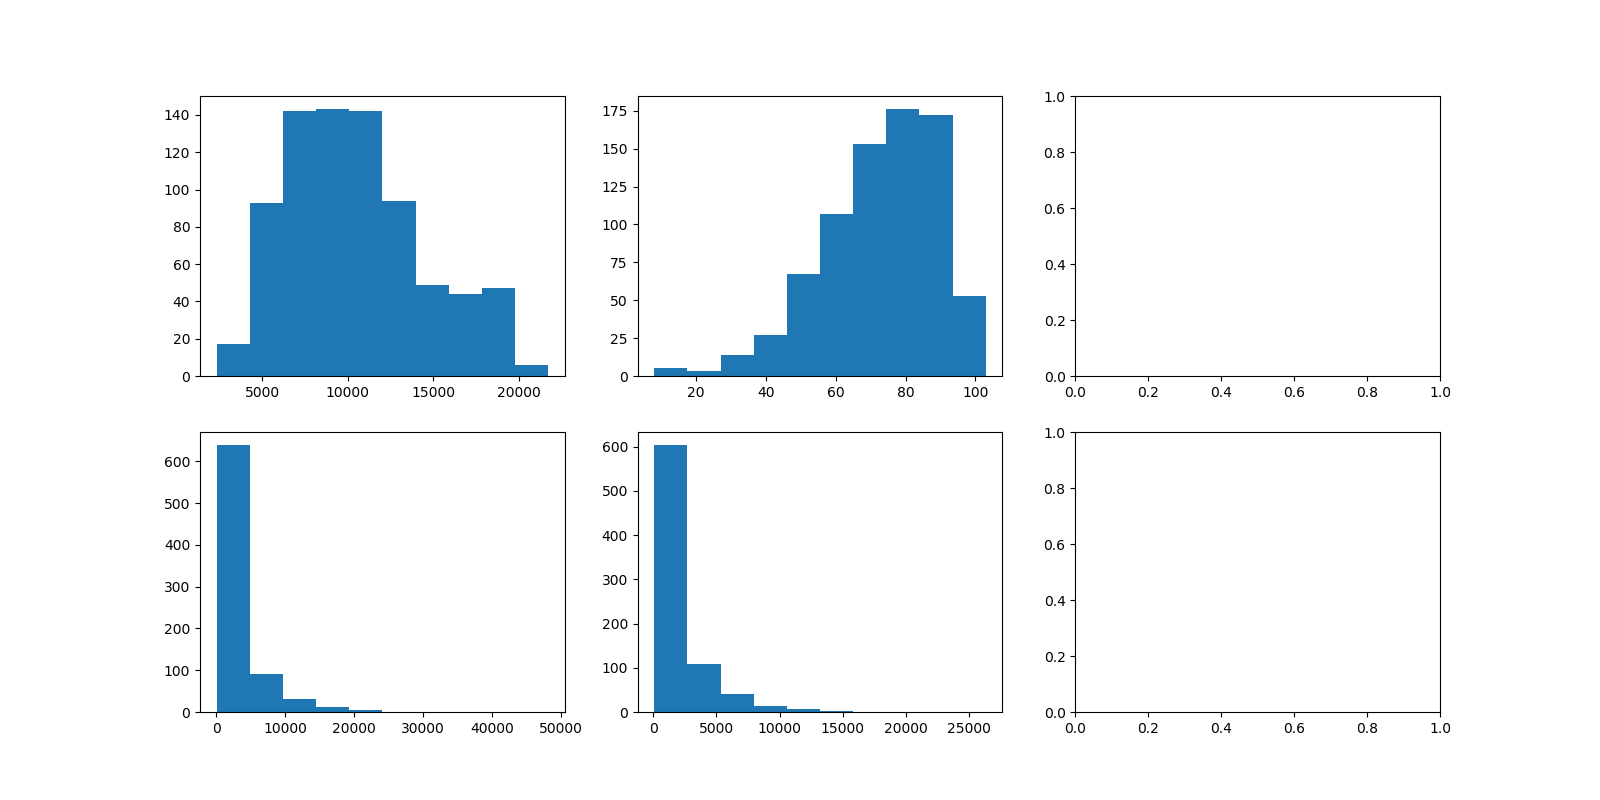
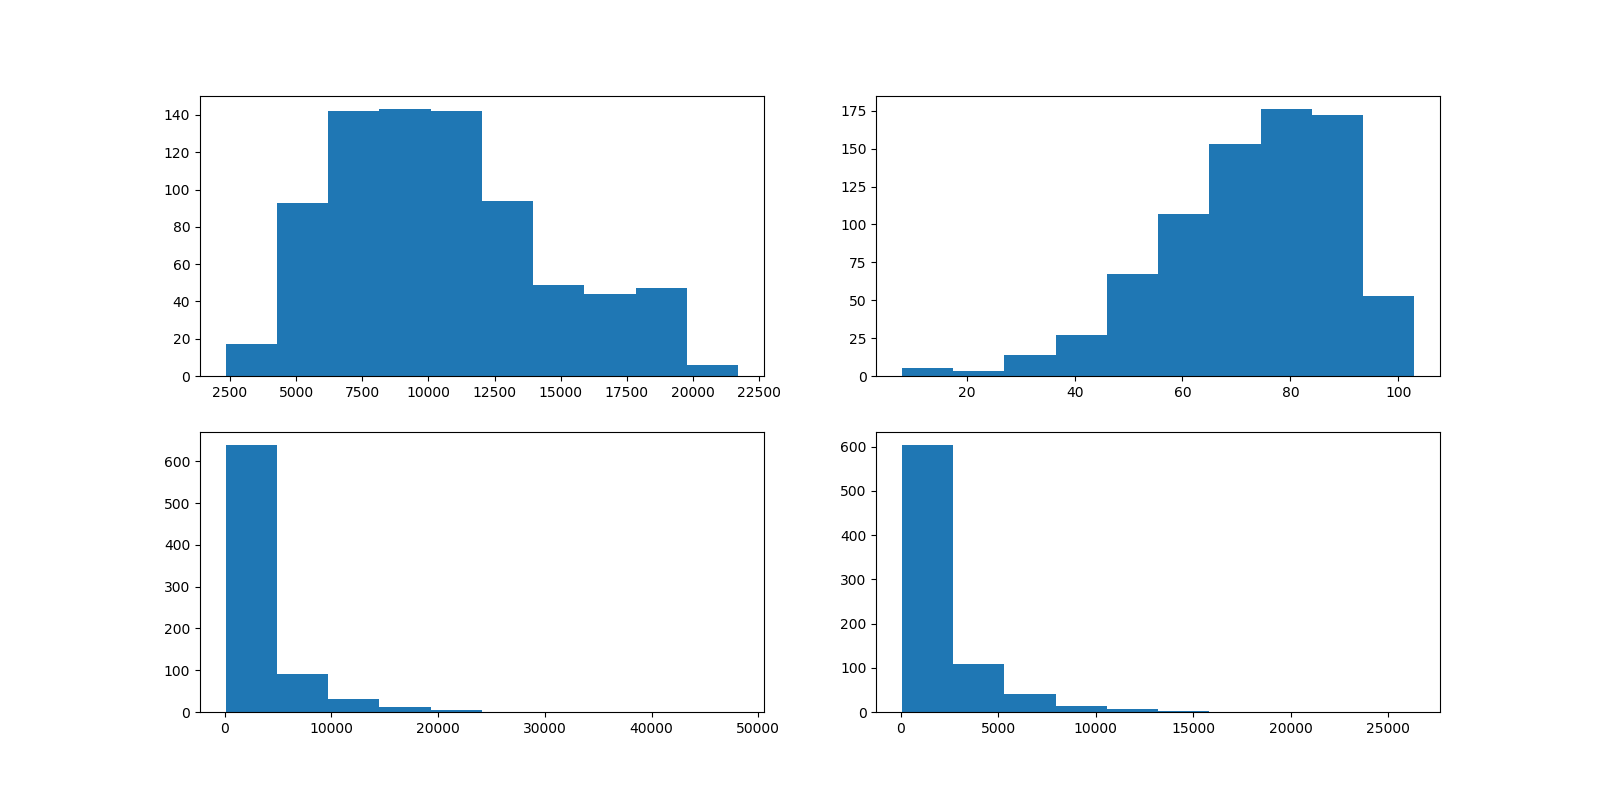
ch2e8g improve

diff --git a/ch2/exercises/e8/e8.py b/ch2/exercises/e8/e8.py
@@ -49,9 +49,10 @@ fig.savefig('boxplot_elite.png')
 # (g) multiple plot
 
 fig, axes = subplots(nrows = 2, 
-                     ncols =3, 
+                     ncols =2, 
                      figsize =(16,8) )
-axes[0,0].hist(college['Outstate'])
+axes[0,0].hist(college['Outstate'], label='Outstate')
+
 axes[0,1].hist(college['PhD'])
 axes[1,0].hist(college['Apps'])
 axes[1,1].hist(college['Accept'])
